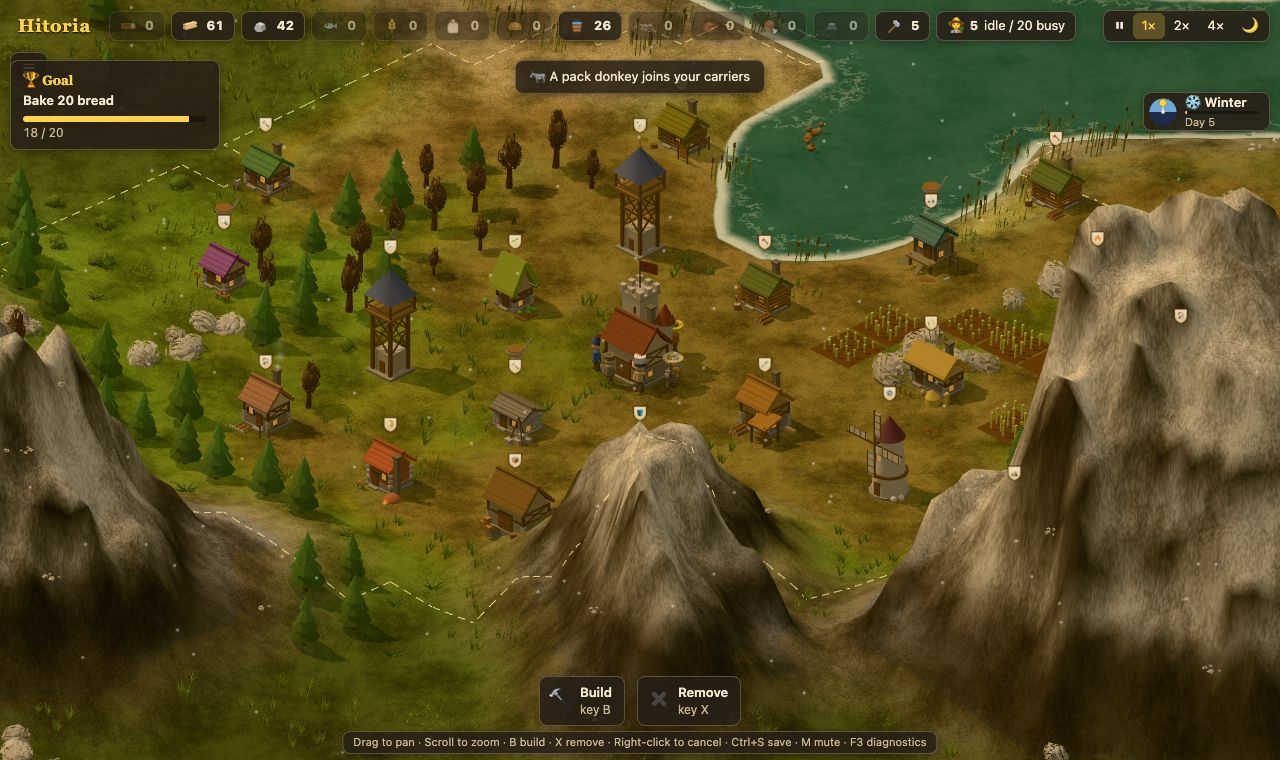
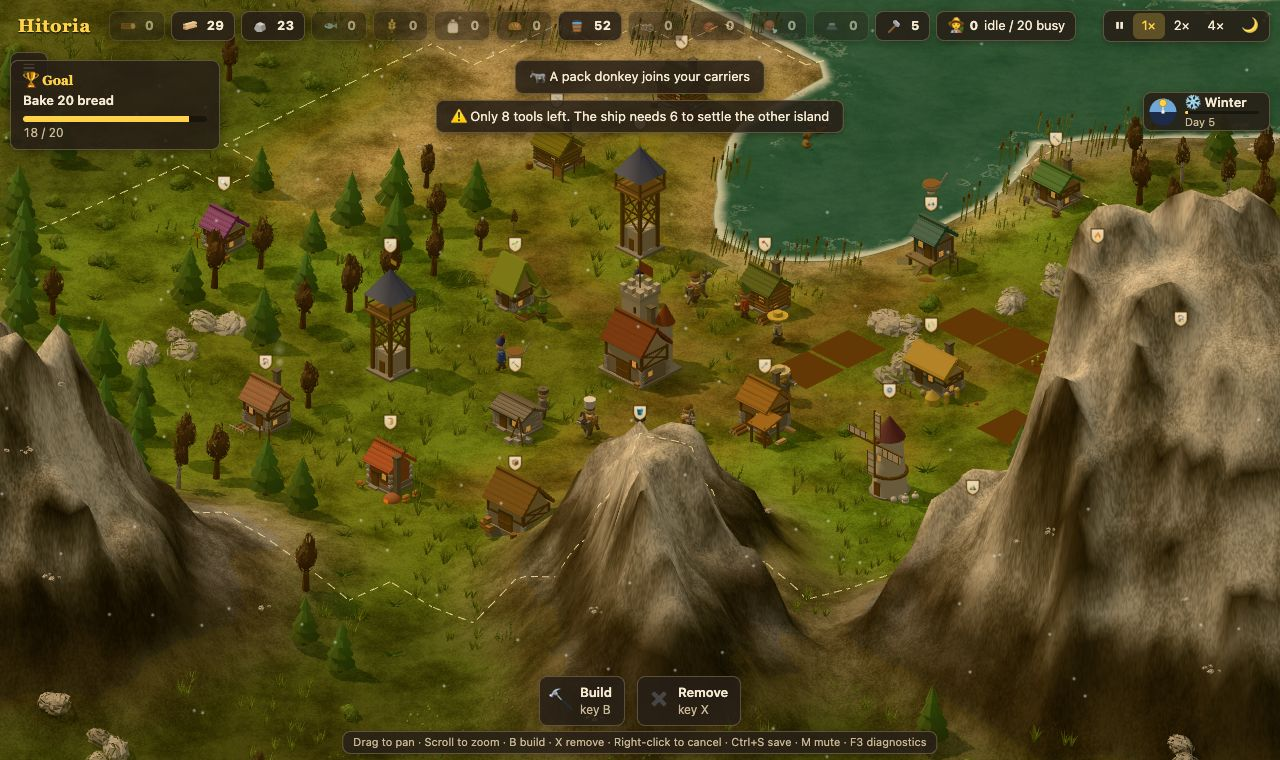
Make worn paths narrow and show only on busy routes
Footsteps wear the ground 5 times slower, and light wear shows no colour.
Each ground point now blends the wear of the nearest tile centres, so a
path one tile wide no longer spreads onto the tiles beside it.

The README screenshot script now closes the island chronicle before it
takes the picture.

diff --git a/src/game/wear.test.ts b/src/game/wear.test.ts
@@ -5,10 +5,13 @@ import { W } from '../world';
 import { findPath } from '../path';
 import { walkCost, walkSpeed } from './land';
 import { takeSettler, step } from './settlers';
-import { tread } from './wear';
+import { tread, wornLook } from './wear';
 import { flatGame, run } from './test-helpers';
 
 const wearAt = (g: Game, x: number, y: number) => g.wear[y * W + x];
+// Enough footsteps to wear a tile right down to dirt.
+const FULL = Math.ceil(1 / WEAR_STEP);
+const wearOut = (g: Game, x: number, y: number) => { for (let i = 0; i < FULL; i++) tread(g, x, y); };
 
 // Send one settler from the HQ on a walk to (x, y), and run until they get there.
 function walkTo(g: Game, x: number, y: number) {
@@ -36,8 +39,15 @@ describe('worn paths', () => {
     tread(g, x, y);
     tread(g, x, y);
     expect(wearAt(g, x, y)).toBeCloseTo(2 * WEAR_STEP);
-    for (let i = 0; i < 20; i++) tread(g, x, y);
+    wearOut(g, x, y);
     expect(wearAt(g, x, y)).toBe(1);
+  });
+
+  test('a few footsteps leave no mark, and a busy route turns to dirt', () => {
+    expect(wornLook(3 * WEAR_STEP)).toBe(0);
+    expect(wornLook(0.4)).toBeGreaterThan(0);
+    expect(wornLook(0.4)).toBeLessThan(1);
+    expect(wornLook(1)).toBe(1);
   });
 
   test('fields, buildings, water and mountains never wear', () => {
@@ -99,7 +109,7 @@ describe('worn paths', () => {
     const g = flatGame();
     const x = g.hq.x + 4, y = g.hq.y + 4;
     g.world.at(x, y).plant = '';
-    for (let i = 0; i < 10; i++) tread(g, x, y);
+    wearOut(g, x, y);
     run(g, FADE_DELAY - 2, undefined, 0.5);
     expect(wearAt(g, x, y)).toBe(1);
     run(g, FADE_TIME / 2, undefined, 0.5);
@@ -113,7 +123,7 @@ describe('worn paths', () => {
   test('a busy path never fades', () => {
     const g = flatGame();
     const x = g.hq.x + 4, y = g.hq.y + 4;
-    for (let i = 0; i < 10; i++) tread(g, x, y);
+    wearOut(g, x, y);
     for (let i = 0; i < 20; i++) {
       run(g, FADE_DELAY - 5, undefined, 0.5);
       tread(g, x, y);
@@ -126,8 +136,10 @@ describe('worn paths', () => {
     const x = g.hq.x + 4, y = g.hq.y + 4;
     const before = g.worn;
     tread(g, x, y);
-    expect(g.worn).toBeGreaterThan(before);
-    for (let i = 0; i < 20; i++) tread(g, x, y);
+    expect(g.worn).toBe(before);
+    while (g.worn === before) tread(g, x, y);
+    expect(wornLook(wearAt(g, x, y))).toBeGreaterThan(0);
+    wearOut(g, x, y);
     const full = g.worn;
     tread(g, x, y);
     expect(g.worn).toBe(full);

diff --git a/src/render/terrain.ts b/src/render/terrain.ts
@@ -7,6 +7,7 @@ import { groundHeight } from './elevation';
 import { FINE, Relief } from './relief';
 import { grainTexture, rippleNormals } from './textures';
 import { seasonGround } from './seasonal';
+import { wornLook } from '../game/wear';
 
 export const SEA = -0.04;
 
@@ -129,18 +130,20 @@ export class Terrain {
       for (let i = 0; i <= W; i++) {
         const k = j * (W + 1) + i;
         const c = this.c.setRGB(0, 0, 0);
-        let n = 0, worn = 0;
+        let n = 0;
         for (const [x, y] of [[i - 1, j - 1], [i, j - 1], [i - 1, j], [i, j]])
           if (world.inside(x, y)) {
             c.add(tileCol(x, y));
             n++;
-            worn = Math.max(worn, wear[y * W + x]);
           }
         c.multiplyScalar(1 / Math.max(1, n));
-        // A worn tile browns all four of its corners, so a path one tile wide still shows clearly.
-        if (worn) c.lerp(path, Math.min(0.85, worn));
         CC.set([c.r, c.g, c.b], k * 3);
       }
+    // How worn each tile looks. Fine points blend the tile centres around them,
+    // so a path one tile wide stays one tile wide instead of spreading onto its neighbours.
+    const look = new Float32Array(W * H);
+    for (let k = 0; k < look.length; k++) look[k] = wornLook(wear[k]);
+    const lookAt = (x: number, y: number) => (x < 0 || y < 0 || x >= W || y >= H ? 0 : look[y * W + x]);
     const r = this.relief, n = r.n, rock = new THREE.Color(ART.rock), snow = new THREE.Color(ART.snow);
     for (let k = 0; k < r.heights.length; k++) {
       const fx = (k % n) / FINE, fy = Math.floor(k / n) / FINE;
@@ -152,6 +155,10 @@ export class Terrain {
         CC[a + 1] * w0 + CC[b + 1] * w1 + CC[d + 1] * w2 + CC[e + 1] * w3,
         CC[a + 2] * w0 + CC[b + 2] * w1 + CC[d + 2] * w2 + CC[e + 2] * w3,
       );
+      const u = fx - 0.5, v = fy - 0.5, ci = Math.floor(u), cj = Math.floor(v), su = u - ci, sv = v - cj;
+      const worn = (lookAt(ci, cj) * (1 - su) + lookAt(ci + 1, cj) * su) * (1 - sv)
+        + (lookAt(ci, cj + 1) * (1 - su) + lookAt(ci + 1, cj + 1) * su) * sv;
+      if (worn) c.lerp(path, Math.min(0.85, worn));
       if (r.rock[k]) c.lerp(rock, r.rock[k]);
       if (r.snow[k]) c.lerp(snow, r.snow[k]);
       if (r.deep[k]) c.lerp(this.deep, r.deep[k]);

diff --git a/src/render/scenery.ts b/src/render/scenery.ts
@@ -9,6 +9,7 @@ import { KINDS, Kind, LEAN_AXIS, PETALS, PLANTS, UP, birch, blossom, boulder, br
 import type { Terrain } from './terrain';
 import type { SeasonLook } from '../seasons/year';
 import { seasonTree } from './seasonal';
+import { wornLook } from '../game/wear';
 
 export class Scenery {
   private trees: THREE.InstancedMesh[];
@@ -116,7 +117,7 @@ export class Scenery {
           this.crops.setColorAt(nc++, t.crop >= 1 ? this.c.set('#e0b84a') : this.c.setHSL(0.25 - 0.1 * t.crop, 0.55, 0.36 + 0.1 * t.crop));
         }
         // A plant hides under anything else on its tile, on a worn path or under snow, and comes back when that is gone.
-        if (t.plant && season.snow < 0.5 && !t.tree && !t.crop && !t.field && !t.rock && !t.b && wear[y * W + x] < 0.3) {
+        if (t.plant && season.snow < 0.5 && !t.tree && !t.crop && !t.field && !t.rock && !t.b && wornLook(wear[y * W + x]) < 0.3) {
           const p = PLANTS[t.plant], mesh = this.plants[t.plant], n = np[t.plant]++;
           const px = x + 0.5 + (hash(x * 5, y) - 0.5) * 0.2, pz = y + 0.5 + (hash(x, y * 5) - 0.5) * 0.2;
           const bend = p.bend * (gust + flutter(x, y, now, 1.6) * 0.25);

diff --git a/src/game/sleep.test.ts b/src/game/sleep.test.ts
@@ -17,6 +17,10 @@ function sawmillGame() {
 
 const workerOf = (g: Game, b: Building) => g.settlers.get(b.worker);
 
+// Every plank made so far: at the mill, in store, or in a carrier's hands on the way.
+const planksMade = (g: Game, mill: Building) => mill.out.plank + g.stored.plank
+  + [...g.settlers.values()].reduce((n, s) => n + (s.carrying === 'plank' ? s.load ?? 1 : 0), 0);
+
 describe('workers sleep at night', () => {
   test('at night a worker walks home to the HQ, goes inside and stops working', () => {
     const { g, mill } = sawmillGame();
@@ -27,9 +31,9 @@ describe('workers sleep at night', () => {
     expect(Math.round(s.x)).toBe(g.hq.x);
     expect(Math.round(s.y)).toBe(g.hq.y);
     expect(mill.status).toBe(ASLEEP);
-    const planks = mill.out.plank + g.stored.plank;
+    const planks = planksMade(g, mill);
     run(g, 60);
-    expect(mill.out.plank + g.stored.plank).toBe(planks);
+    expect(planksMade(g, mill)).toBe(planks);
     expect(mill.busy).toBe(false);
     expect(mill.worker).toBe(s.id); // the hut keeps its worker
   });

diff --git a/src/game/wear.ts b/src/game/wear.ts
@@ -1,11 +1,14 @@
 // Worn paths: each footstep wears the grass toward dirt, and paths nobody walks fade back to grass.
 import { W } from '../world';
-import { FADE_DELAY, FADE_TIME, WEAR_STEP } from './defs';
+import { FADE_DELAY, FADE_TIME, WEAR_FULL, WEAR_SHOWS, WEAR_STEP } from './defs';
 import type { Game } from './game';
 
 // How many shades of wear the ground shows. The look counter changes only when a tile changes shade.
 const SHADES = 6;
-const shade = (w: number) => Math.round(w * SHADES);
+const shade = (w: number) => Math.round(wornLook(w) * SHADES);
+
+// How worn a tile looks, from 0 to 1. A few footsteps leave no mark, so only busy routes show.
+export const wornLook = (w: number) => Math.min(1, Math.max(0, (w - WEAR_SHOWS) / (WEAR_FULL - WEAR_SHOWS)));
 
 // Only open ground wears. Fields have their own look, and buildings stand on theirs.
 function wearable(g: Game, x: number, y: number) {

diff --git a/src/game/defs.ts b/src/game/defs.ts
@@ -88,6 +88,8 @@ export const PILE = 4; // max finished goods a hut keeps before its worker pause
 export const CROP_GROW = 60; // seconds for sown grain to ripen
 export const FARM_FIELDS = 6; // fields every farm keeps for itself
 export const PATH_SPEED = 1.25; // multiplier on a fully worn path
-export const WEAR_STEP = 0.2; // wear one footstep adds to a tile, out of 1
+export const WEAR_STEP = 0.04; // wear one footstep adds to a tile, out of 1
+export const WEAR_SHOWS = 0.15; // wear a tile needs before it starts to look worn
+export const WEAR_FULL = 0.6; // wear at which a tile looks like bare dirt
 export const FADE_DELAY = 60; // seconds a path stays fully worn after the last footstep
 export const FADE_TIME = 180; // seconds a fully worn path then takes to fade back to grass

diff --git a/scripts/readme/shot.ts b/scripts/readme/shot.ts
@@ -35,6 +35,9 @@ try {
   }, [...store]);
   await page.goto(`http://127.0.0.1:${server.port}/`, { waitUntil: 'load' });
   await Bun.sleep(LOAD_MS);
+  // Loading a save opens the island chronicle. Close it so the village shows.
+  await page.keyboard.press('Escape');
+  await Bun.sleep(500);
   await page.screenshot({ path: FILE as `${string}.jpeg`, type: 'jpeg', quality: 80 });
   console.log(`Saved ${FILE}`);
 } finally {

diff --git a/README.md b/README.md
@@ -381,7 +381,8 @@ one kind at once, one in each basket. You get one donkey for every 4 buildings, 
 Donkeys are not settlers, so they never take a worker from you. They go back to the HQ when the
 work is done.
 
-Settlers' footsteps wear the grass into dirt paths. Settlers walk up to 1.25×
+Settlers' footsteps wear the grass into dirt paths. A few footsteps leave no mark. About 4
+footsteps on a tile start to show, and about 15 turn it fully to dirt. Settlers walk up to 1.25×
 faster on a well-worn path, so they keep to the same lines. A path nobody walks for a minute
 fades back to grass over about 3 minutes.
 

diff --git a/changelog/entries/2026-11-01-narrow-paths.md b/changelog/entries/2026-11-01-narrow-paths.md
@@ -1,0 +1,8 @@
+---
+title: Narrow, busy-only paths
+date: '2026-11-01 19:29'
+---
+Worn paths no longer turn your village into one big patch of mud.
+
+- A few footsteps leave no mark. Only routes your settlers walk often turn to dirt.
+- A path one tile wide now looks one tile wide. It no longer spreads onto the grass beside it.
